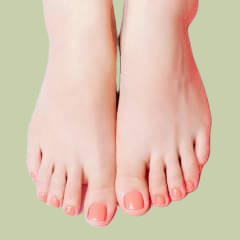
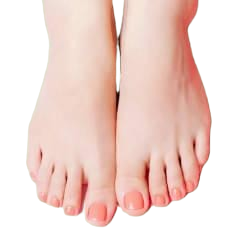
f

diff --git a/app/services/[serviceName]/page.js b/app/services/[serviceName]/page.js
@@ -115,44 +115,92 @@ export default function ServiceDetailPage() {
       <main className="space-y-4 px-4 mt-[-30px] relative z-10">
         
         {/* Card 1: Core Title & Pricing */}
-        <section className="bg-white rounded-[2.5rem] p-8 shadow-[0_15px_40px_rgba(58,77,57,0.08)] border border-[#f1f3eb]">
-          <div className="space-y-2">
-            <div className="flex items-center gap-2">
-               <span className="text-[10px] font-black text-[#a61d33] bg-rose-50 px-3 py-1 rounded-full uppercase tracking-widest">Premium Services</span>
-               <div className="flex items-center gap-1 bg-amber-50 px-3 py-1 rounded-full border border-amber-100">
-                  <Star size={12} fill="#f7b614" className="text-[#f7b614]" />
-                  <span className="text-[11px] font-[1000] text-[#3A4D39]">{selected.rating || "4.9"}</span>
-               </div>
-            </div>
-            
-            <h1 className="text-[26px] font-[1000] tracking-tight text-[#1A2421] leading-tight italic uppercase">
-              {selected.title}
-            </h1>
-            
-            <p className="text-[#4F6F52] text-[15px] font-bold leading-relaxed pt-2 opacity-80">{selected.description}</p>
-            
-            <div className="flex items-center gap-3 mt-6 pt-4 border-t border-[#f1f3eb]">
-              <span className="text-3xl font-[1000] text-[#3A4D39] tracking-tighter">₹{selected.price}</span>
-              <span className="text-gray-300 text-md line-through font-bold">₹{selected.price + 200}</span>
-              <span className="ml-auto bg-[#3A4D39] text-white text-[10px] font-black px-3 py-1.5 rounded-xl shadow-lg uppercase italic tracking-widest">Best Value</span>
-            </div>
-          </div>
-        </section>
+       <section className="bg-white rounded-[2rem] p-6 shadow-[0_10px_30px_rgba(58,77,57,0.08)] border border-[#f1f3eb] transition-all hover:shadow-[0_12px_40px_rgba(58,77,57,0.12)]">
+  <div className="space-y-3">
+
+    {/* Tags & Rating */}
+    <div className="flex items-center gap-2">
+      <span className="text-[9px] font-extrabold text-[#a61d33] bg-rose-50 px-2.5 py-1 rounded-full uppercase tracking-widest shadow-inner">
+        Premium Services
+      </span>
+
+      <div className="flex items-center gap-1 bg-gradient-to-br from-[#fff9e6] to-[#fff1c4] px-2.5 py-1 rounded-full border border-amber-100 shadow-sm">
+        <Star size={12} fill="#f7b614" className="text-[#f7b614]" />
+        <span className="text-[10px] font-extrabold text-[#3A4D39]">{selected.rating || "4.9"}</span>
+      </div>
+    </div>
+
+    {/* Title */}
+    <h1 className="text-[22px] md:text-[26px] font-[1000] tracking-tight text-[#1A2421] leading-snug italic uppercase">
+      {selected.title}
+    </h1>
+
+    {/* Description */}
+    <p className="text-[#4F6F52] text-[14px] md:text-[15px] font-bold leading-relaxed opacity-80">
+      {selected.description}
+    </p>
+
+    {/* Price & Badge */}
+    <div className="flex items-center gap-3 mt-4 pt-3 border-t border-white">
+      <span className="text-2xl md:text-3xl  font-[1000] text-[#3A4D39] ">
+        ₹{selected.price}
+      </span>
+      <span className="text-[#a61d33] text-[14px] line-through font-bold">
+        ₹{selected.price + 200}
+      </span>
+      <span className="ml-auto bg-gradient-to-br from-[#3A4D39] to-[#4F6F52] text-white text-[9px] font-extrabold px-3 py-1.5 rounded-xl shadow-lg uppercase italic tracking-widest">
+        Best Value
+      </span>
+    </div>
+  </div>
+</section>
+
 
         {/* Min Cart Toast */}
-        {minCartError && (
-          <motion.div 
-            initial={{ y: 20, opacity: 0 }} animate={{ y: 0, opacity: 1 }}
-            className="fixed bottom-23 left-6 right-6 md:left-1/2 md:-translate-x-1/2 md:max-w-sm z-[110] bg-white/90 backdrop-blur-xl border-2 border-[#E0E5D2] shadow-2xl rounded-[2rem] p-5 flex items-center gap-4 animate-in slide-in-from-bottom-10 duration-500"
-          >
-            <div className="w-12 h-12 rounded-2xl bg-[#a61d33] flex items-center justify-center text-white font-[1000] text-xl italic shadow-lg">₹</div>
-            <div className="flex-1">
-              <h4 className="text-[11px] font-black text-[#1A2421] uppercase tracking-widest">Almost there!</h4>
-              <p className="text-[12px] font-bold text-[#4F6F52]">{minCartError}</p>
-            </div>
-            <button onClick={() => setMinCartError("")}><X size={18} className="text-gray-300"/></button>
-          </motion.div>
-        )}
+      {minCartError && (
+  <div
+    className="fixed bottom-19 left-1/2 -translate-x-1/2 z-[100]
+    w-[90%] max-w-xs
+    bg-white/70 backdrop-blur-2xl
+    border border-white/40
+    shadow-[0_10px_40px_rgba(0,0,0,0.12)]
+    rounded-2xl px-4 py-3
+    flex items-center gap-3
+    animate-in fade-in slide-in-from-bottom-4 duration-300"
+  >
+    {/* Gradient 3D Icon */}
+    <div className="relative shrink-0">
+      <div className="w-10 h-10 rounded-xl
+        bg-gradient-to-br from-[#8a9a5b] via-[#7f8f52] to-[#6f7f46]
+        flex items-center justify-center
+        text-white text-sm font-semibold
+        shadow-md shadow-blue-300/40"
+      >
+        ₹
+      </div>
+    </div>
+
+    {/* Text */}
+    <div className="flex-1">
+      <p className="text-xs font-semibold text-gray-900 leading-tight">
+         <span className="text-transparent bg-clip-text bg-gradient-to-br from-[#8a9a5b] via-[#7f8f52] to-[#6f7f46] font-bold">
+          {minCartError}
+        </span> more
+      </p>
+      <p className="text-[10px] text-gray-500 font-medium">
+        to proceed to checkout
+      </p>
+
+      {/* Minimal Progress */}
+      <div className="mt-2 h-[3px] w-full bg-gray-200/60 rounded-full overflow-hidden">
+        <div
+          className="h-full bg-gradient-to-br from-[#8a9a5b] via-[#7f8f52] to-[#6f7f46]transition-all duration-700 ease-out rounded-full"
+          style={{ width: "70%" }} 
+        />
+      </div>
+    </div>
+  </div>
+)}
 
         {/* ✨ SERVICE STEPS: Saga Style */}
         {selected.steps && selected.steps.length > 0 && (
@@ -221,23 +269,29 @@ export default function ServiceDetailPage() {
       </main>
 
       {/* 🚀 Saga Sticky Checkout Bar */}
-     <div className="fixed bottom-0 inset-x-0 z-[60] 
+  <div className="fixed bottom-0 inset-x-0 z-60 
   bg-white/90 backdrop-blur-xl 
   border-t border-[#e6eadf] 
-  px-6 py-5 
+  px-6 py-4 
   flex items-center justify-between
-  shadow-[0_-12px_32px_rgba(58,77,57,0.08)]"
->
+  shadow-[0_-12px_32px_rgba(58,77,57,0.08)]
+  transition-all
+">
+
   {/* LEFT — Price */}
-  <div className="flex  flex-col">
+  <div className="flex flex-col">
     <div className="flex items-center gap-2">
-      <span className="text-[26px] font-extrabold text-[#1A2421] tracking-tight leading-none">
+      <span className="text-[24px] md:text-[26px] font-extrabold text-[#1A2421] tracking-tight leading-none">
         ₹{selected.price}
       </span>
 
-      <span className="bg-[#eef2e6] text-[#3A4D39] 
+      <span className="
+        bg-gradient-to-r from-[#3A4D39] to-[#4F6F52] 
+        text-white
         text-[9px] font-bold px-2 py-0.5 
-        rounded-full uppercase tracking-wide">
+        rounded-full uppercase tracking-wide
+        shadow-[0_2px_8px_rgba(58,77,57,0.25)]
+      ">
         Net Price
       </span>
     </div>
@@ -251,21 +305,21 @@ export default function ServiceDetailPage() {
   <button
     onClick={() => addToCart(selected)}
     className="
-      h-14 px-8 
-      rounded-[1.25rem] 
-      bg-[#3A4D39] 
-      hover:bg-[#2f3a1f]
+      h-12 md:h-14 px-6 md:px-8 
+      rounded-[1.5rem] 
+   bg-gradient-to-br from-[#3A4D39] via-[#465f45] to-[#2f3a1f]
       text-white 
       text-[12px] font-extrabold uppercase tracking-[0.18em]
-      shadow-lg shadow-[#3a4d39]/25
-      flex items-center gap-3
+      shadow-[0_6px_18px_rgba(58,77,57,0.3)]
+      flex items-center justify-center gap-3
       active:scale-[0.97] transition-all
     "
   >
     Book Now
-    {/* <ChevronRight size={18} className="text-[#f7b614]" /> */}
+    <ChevronRight size={18} className="text-[#f7b614]" />
   </button>
 </div>
+
 
     </div>
   );
